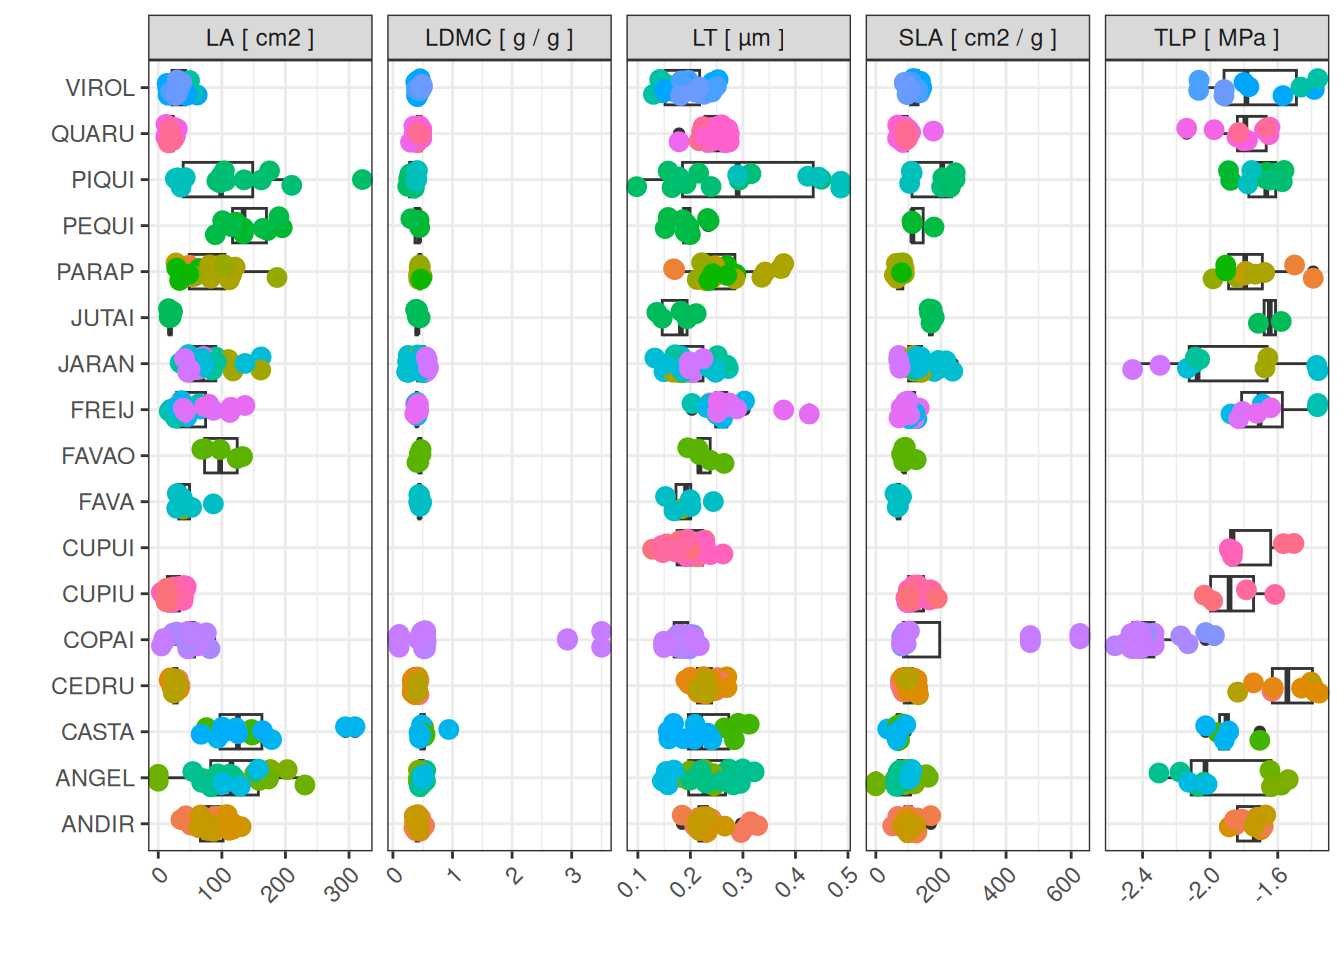
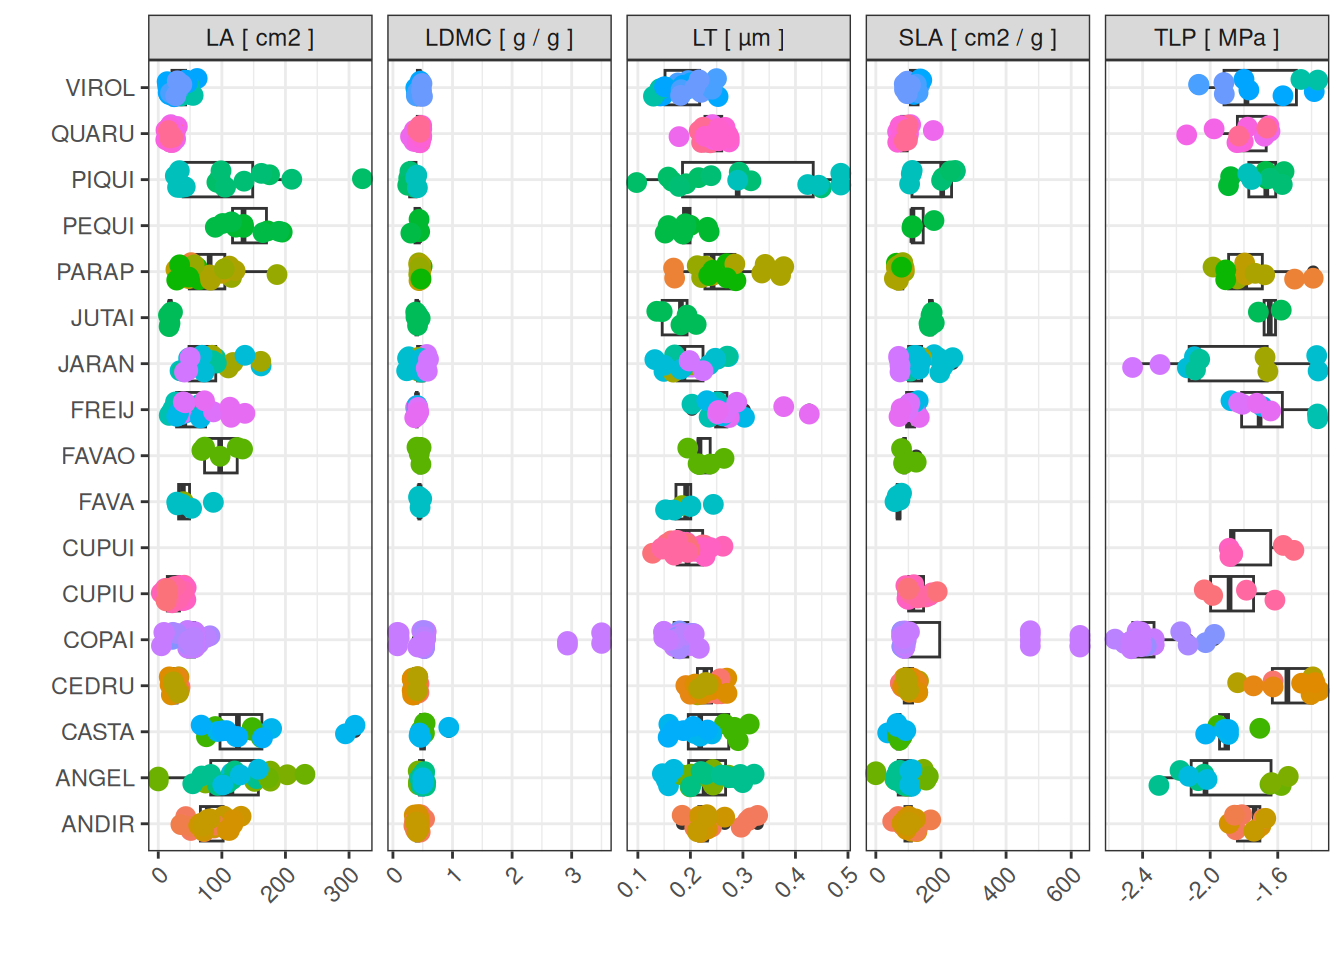
Joannes'test

diff --git a/docs/25_junction.html b/docs/25_junction.html
@@ -325,14 +325,20 @@ pre > code.sourceCode > span > a:first-child::before { text-decoration: underlin
 <summary>Code</summary>
 <div class="sourceCode cell-code" id="cb3"><pre class="sourceCode r code-with-copy"><code class="sourceCode r"><span id="cb3-1"><a href="#cb3-1" aria-hidden="true" tabindex="-1"></a><span class="fu">read_tsv</span>(<span class="st">"outputs/traits.tsv"</span>) <span class="sc">%&gt;%</span> </span>
 <span id="cb3-2"><a href="#cb3-2" aria-hidden="true" tabindex="-1"></a>  <span class="fu">filter</span>(sla <span class="sc">&lt;</span> <span class="dv">400</span>) <span class="sc">%&gt;%</span> </span>
-<span id="cb3-3"><a href="#cb3-3" aria-hidden="true" tabindex="-1"></a>  <span class="fu">ggplot</span>(<span class="fu">aes</span>(sla, tlp)) <span class="sc">+</span></span>
-<span id="cb3-4"><a href="#cb3-4" aria-hidden="true" tabindex="-1"></a>  <span class="fu">geom_point</span>() <span class="sc">+</span></span>
-<span id="cb3-5"><a href="#cb3-5" aria-hidden="true" tabindex="-1"></a>  <span class="fu">theme_bw</span>() <span class="sc">+</span></span>
-<span id="cb3-6"><a href="#cb3-6" aria-hidden="true" tabindex="-1"></a>  <span class="fu">xlab</span>(<span class="fu">expression</span>(<span class="st">"SLA ["</span><span class="sc">~</span>cm<span class="sc">^</span>{<span class="dv">2</span>}<span class="sc">~</span>g<span class="sc">^</span>{<span class="sc">-</span><span class="dv">1</span>}<span class="sc">~</span><span class="st">"]"</span>)) <span class="sc">+</span></span>
-<span id="cb3-7"><a href="#cb3-7" aria-hidden="true" tabindex="-1"></a>  <span class="fu">ylab</span>(<span class="fu">expression</span>(<span class="st">"TLP ["</span><span class="sc">~</span>MPa<span class="sc">~</span><span class="st">"]"</span>))</span></code><button title="Copy to Clipboard" class="code-copy-button"><i class="bi"></i></button></pre></div>
+<span id="cb3-3"><a href="#cb3-3" aria-hidden="true" tabindex="-1"></a>  <span class="fu">select</span>(sla, tlp, vernacular, tree, leaf) <span class="sc">%&gt;%</span> </span>
+<span id="cb3-4"><a href="#cb3-4" aria-hidden="true" tabindex="-1"></a>  <span class="fu">na.omit</span>() <span class="sc">%&gt;%</span> </span>
+<span id="cb3-5"><a href="#cb3-5" aria-hidden="true" tabindex="-1"></a>  <span class="fu">ggplot</span>(<span class="fu">aes</span>(sla, tlp, <span class="at">col =</span> <span class="fu">as.character</span>(tree))) <span class="sc">+</span></span>
+<span id="cb3-6"><a href="#cb3-6" aria-hidden="true" tabindex="-1"></a>  <span class="fu">geom_smooth</span>(<span class="fu">aes</span>(<span class="at">group =</span> vernacular), <span class="at">method =</span> <span class="st">"lm"</span>, </span>
+<span id="cb3-7"><a href="#cb3-7" aria-hidden="true" tabindex="-1"></a>              <span class="at">col =</span> <span class="st">"grey"</span>, <span class="at">alpha =</span> .<span class="dv">2</span>) <span class="sc">+</span></span>
+<span id="cb3-8"><a href="#cb3-8" aria-hidden="true" tabindex="-1"></a>  <span class="fu">geom_point</span>() <span class="sc">+</span></span>
+<span id="cb3-9"><a href="#cb3-9" aria-hidden="true" tabindex="-1"></a>  <span class="fu">theme_bw</span>() <span class="sc">+</span></span>
+<span id="cb3-10"><a href="#cb3-10" aria-hidden="true" tabindex="-1"></a>  <span class="fu">xlab</span>(<span class="fu">expression</span>(<span class="st">"SLA ["</span><span class="sc">~</span>cm<span class="sc">^</span>{<span class="dv">2</span>}<span class="sc">~</span>g<span class="sc">^</span>{<span class="sc">-</span><span class="dv">1</span>}<span class="sc">~</span><span class="st">"]"</span>)) <span class="sc">+</span></span>
+<span id="cb3-11"><a href="#cb3-11" aria-hidden="true" tabindex="-1"></a>  <span class="fu">ylab</span>(<span class="fu">expression</span>(<span class="st">"TLP ["</span><span class="sc">~</span>MPa<span class="sc">~</span><span class="st">"]"</span>)) <span class="sc">+</span></span>
+<span id="cb3-12"><a href="#cb3-12" aria-hidden="true" tabindex="-1"></a>  <span class="fu">facet_wrap</span>(<span class="sc">~</span> vernacular, <span class="at">scales =</span> <span class="st">"free"</span>) <span class="sc">+</span></span>
+<span id="cb3-13"><a href="#cb3-13" aria-hidden="true" tabindex="-1"></a>  <span class="fu">scale_color_discrete</span>(<span class="at">guide =</span> <span class="st">"none"</span>)</span></code><button title="Copy to Clipboard" class="code-copy-button"><i class="bi"></i></button></pre></div>
 </details>
 <div class="cell-output-display">
-<p><img src="25_junction_files/figure-html/figure2-1.png" class="img-fluid" width="672"></p>
+<p><img src="25_junction_files/figure-html/figure2-1.png" class="img-fluid" width="960"></p>
 </div>
 </div>
 <blockquote class="blockquote">
